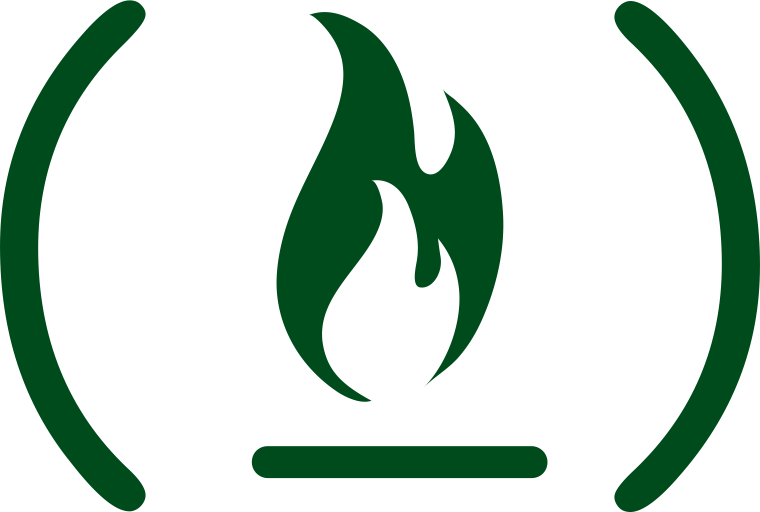
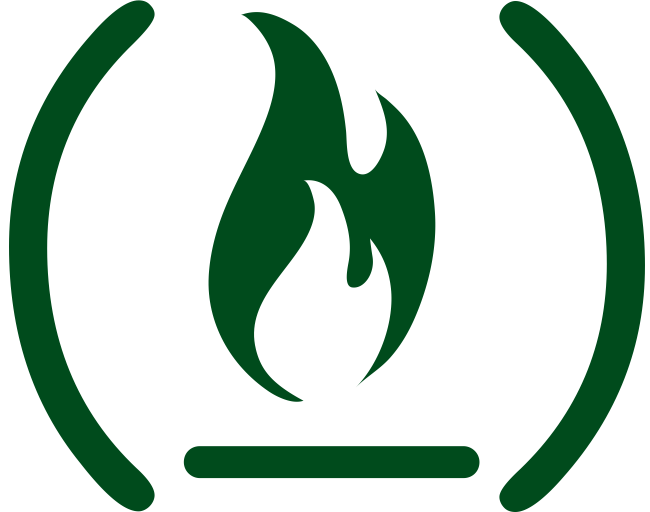
modify images size

diff --git a/style.scss b/style.scss
@@ -4,60 +4,86 @@ body {
     overflow-y: hidden;
     .main {
         position: relative;
-        width: 90vw;
+        width: 80vw;
         height: 90vh;
         margin-top: 5vh;
         margin-bottom: 5vh;
-        margin-right: 5vw;
-        margin-left: 5vw;
+        margin-right: 10vw;
+        margin-left: 10vw;
         background-color: white;
+        background-image: url(images/home_.png);
+        background-position: right top ;
+        background-repeat: no-repeat;
+        background-size: 45% 98%;
         box-shadow: 0px 5px 10px rgba(0,0,0,0.16);
         border-radius: 25px;
-        .nav {
-            margin: 5%;
-            height: 60px;
-            width: 90%;
+        .column{
+            display: flex;
+            flex-direction: column;
+            width: 100%;
+            height: 100%;
             position: absolute;
-            display: block;
-            .logo {
-                position: relative;
+            border-radius: 25px;
+        .column1 {
+            height: 10%;
+            margin: 3% 5% 0% 5%;
+            display: flex;
+            flex-direction: row;
+           .row1 {
                 width: 50%;
-                height: 80%;
                 img {
-                   width: 52px;
+                   height: 40px;
+                   padding: 10px;
                     }
-                #signature {
-                   width: 75px;
-                   transform: translateY(-13px);
-                           }    
                  }
-            .menu {
-                position: relative;
+           .row2 {
                 width: 50%;
-                height: 80%;
+                margin-right: 30px;
+              nav {
+                margin-right: 60px;
+                padding: 18px 0px 18px 0px;
                 float: right;
-               .navbar {
+                .navbar {
                    font-size: 16px;
                    text-decoration: none;
                    font-family: Titillium Web semibold;
                    color:#78257D;
-                   //padding: 5px;
+                   padding: 0px 15px 0 15px;
                        }
                 .navbar:hover {
+                    font-family: Titillium Web;
                     color: #54479A;
                     background-color: #F7F3F7;
                     border-radius: 6px;
                     box-shadow: 0px 1px 5px rgba(0,0,0,0.1);
-                             }      
+                             } 
+                 }
+                 }
+                }
+        .column2 {
+            height: 80%;
+            margin: 0% 0% 3% 5%;
+            #quote {
+                padding: 100px 0 0 10px;
+                font-size: 40px;
+                font-family: Raleway light;
+                color:#78257D;  
+            }              
+    
+            a {
+                text-decoration: none;
+                color:white; 
+                font-size: 28px;
+                font-family: Raleway;
+                font-weight: bold;
+                margin-left: 11px;
+                padding:2px 10px 2px 10px;
+                border-radius: 10px;
+                width: 375px;
+                background-color: #861872;
+                line-height: 34px;
+             }
+                }
         }
     }
-    div{
-    position: relative;
-    width: 50%;
-    height: 80%;
-    background: url(images/home_.png) right bottom no-repeat;
-}
-}
-    
-
 }

diff --git a/style.css b/style.css
@@ -1,2 +1,2 @@
-body{background-image:url(background.svg);background-repeat:no-repeat;overflow-y:hidden}body .main{position:relative;width:90vw;height:90vh;margin-top:5vh;margin-bottom:5vh;margin-right:5vw;margin-left:5vw;background-color:white;box-shadow:0px 5px 10px rgba(0,0,0,0.16);border-radius:25px}body .main .nav{margin:5%;height:60px;width:90%;position:absolute;display:block}body .main .nav .logo{position:relative;width:50%;height:80%}body .main .nav .logo img{width:52px}body .main .nav .logo #signature{width:75px;transform:translateY(-13px)}body .main .nav .menu{position:relative;width:50%;height:80%;float:right}body .main .nav .menu .navbar{font-size:16px;text-decoration:none;font-family:Titillium Web semibold;color:#78257D}body .main .nav .menu .navbar:hover{color:#54479A;background-color:#F7F3F7;border-radius:6px;box-shadow:0px 1px 5px rgba(0,0,0,0.1)}body .main div{position:relative;width:50%;height:80%;background:url(images/home_.png) right bottom no-repeat}
+body{background-image:url(background.svg);background-repeat:no-repeat;overflow-y:hidden}body .main{position:relative;width:80vw;height:90vh;margin-top:5vh;margin-bottom:5vh;margin-right:10vw;margin-left:10vw;background-color:white;background-image:url(images/home_.png);background-position:right top;background-repeat:no-repeat;background-size:45% 98%;box-shadow:0px 5px 10px rgba(0,0,0,0.16);border-radius:25px}body .main .column{display:flex;flex-direction:column;width:100%;height:100%;position:absolute;border-radius:25px}body .main .column .column1{height:10%;margin:3% 5% 0% 5%;display:flex;flex-direction:row}body .main .column .column1 .row1{width:50%}body .main .column .column1 .row1 img{height:40px;padding:10px}body .main .column .column1 .row2{width:50%;margin-right:30px}body .main .column .column1 .row2 nav{margin-right:60px;padding:18px 0px 18px 0px;float:right}body .main .column .column1 .row2 nav .navbar{font-size:16px;text-decoration:none;font-family:Titillium Web semibold;color:#78257D;padding:0px 15px 0 15px}body .main .column .column1 .row2 nav .navbar:hover{font-family:Titillium Web;color:#54479A;background-color:#F7F3F7;border-radius:6px;box-shadow:0px 1px 5px rgba(0,0,0,0.1)}body .main .column .column2{height:80%;margin:0% 0% 3% 5%}body .main .column .column2 #quote{padding:100px 0 0 10px;font-size:40px;font-family:Raleway light;color:#78257D}body .main .column .column2 a{text-decoration:none;color:white;font-size:28px;font-family:Raleway;font-weight:bold;margin-left:11px;padding:2px 10px 2px 10px;border-radius:10px;width:375px;background-color:#861872;line-height:34px}
 /*# sourceMappingURL=style.css.map */

diff --git a/index.html b/index.html
@@ -8,21 +8,26 @@
 
 <body>
    <div class="main">
-    <div class="nav">
-        <div  class="logo">
+       <div class="column">
+    <div class="column1">
+        <div  class="row1">
             <img src="images/logo.png" alt="logo">
-            <img src="images/signature.png" alt="signature" id="signature">
         </div>
-        <div class="menu">
-          <nav>
-                <a href="Home.html" class="navbar">HOME</a>
+        <div class="row2">
+            <nav>
+                <a href="index.html" class="navbar">HOME</a>
                 <a href="AboutMe.html" class="navbar">ABOUT ME</a>
                 <a href="Contact.html" class="navbar">CONTACT</a>
-          </nav>
+            </nav>
+        </div> 
+    </div>
+    <div class="column2">
+            <p id="quote">Don't limit your challenges,<br>
+               Challenge your limits.
+            </p>
+            <a href="contact.html">Get in touch & check my work</a>
         </div>
-    </div>
-    <div>
-    </div>
    </div>
+</div>
 </body>
 </html>
